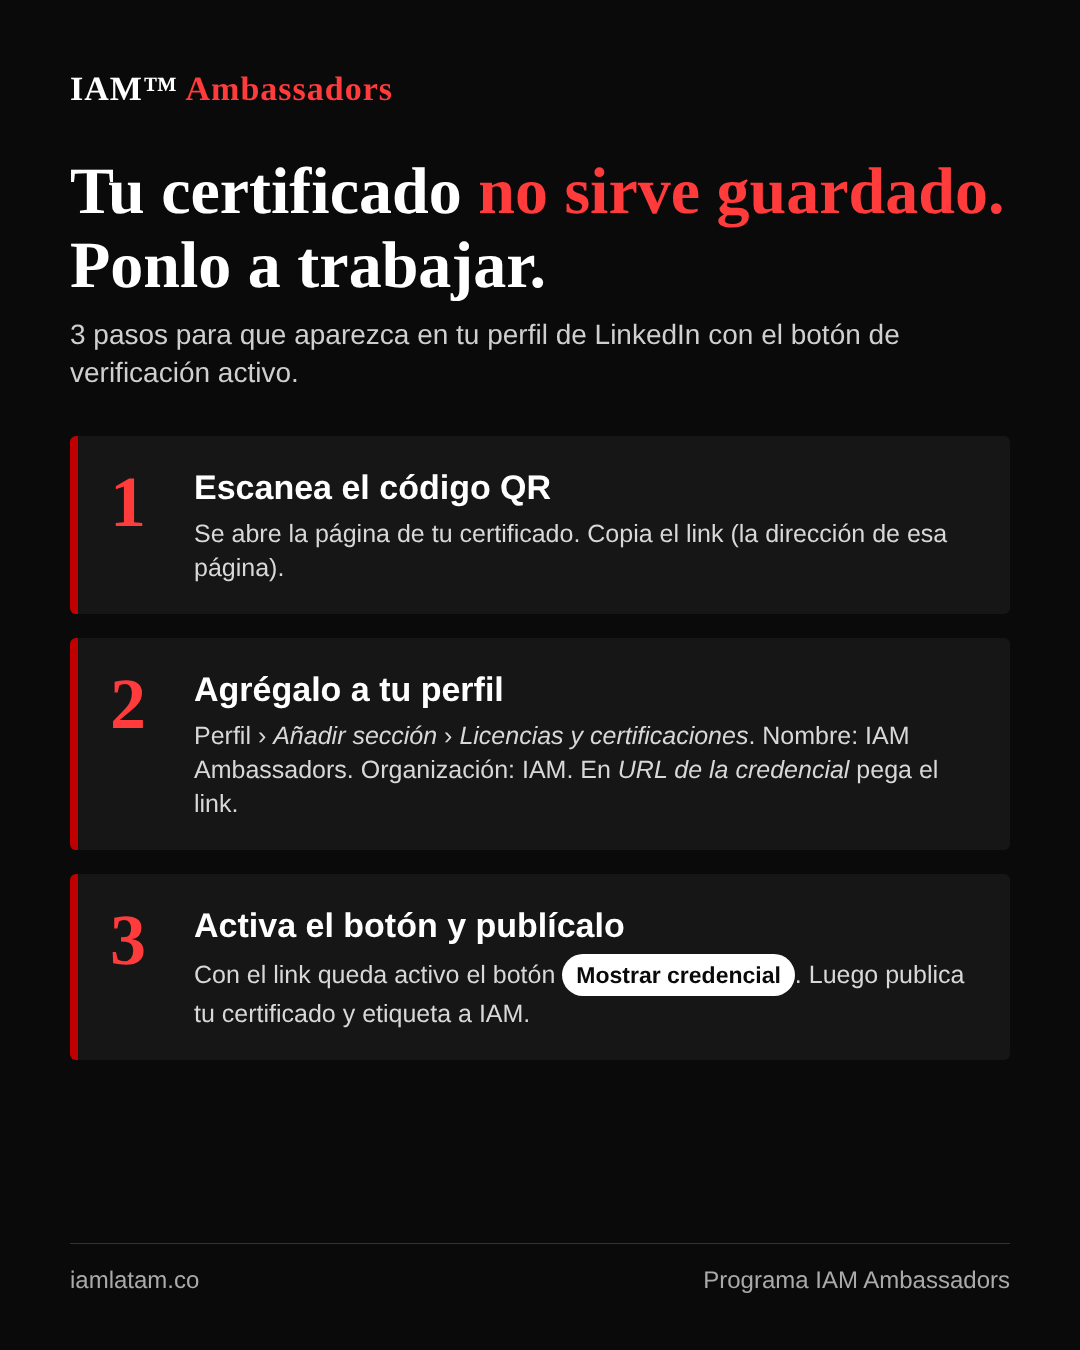
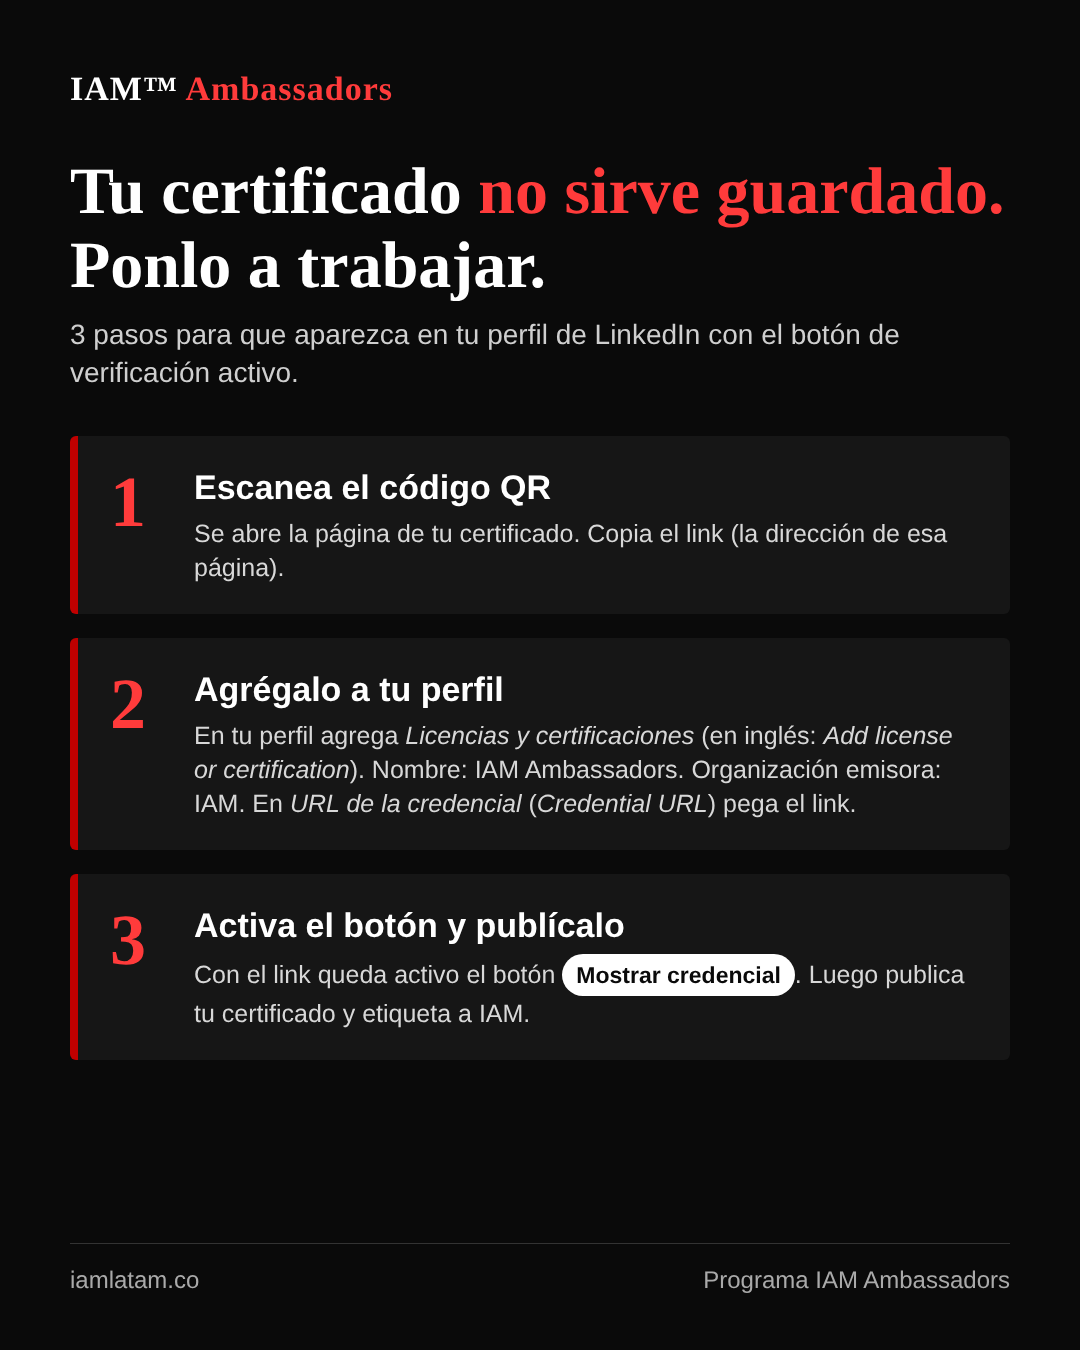
Luz Stella Murgas confirmada presidenta ANDI; guía de certificado con nombres de campos verificados
Claude-Session: https://claude.ai/code/session_01Tmne2aLNP1UGqMwJXFqoP3

Changed region(s): [[0.1833, 0.5289, 0.8861, 0.6222]]

diff --git a/contenido-linkedin/grupos/ambassadors-comfacesar/guia-certificado.html b/contenido-linkedin/grupos/ambassadors-comfacesar/guia-certificado.html
@@ -16,7 +16,7 @@ h1 em{font-style:normal;color:#FF3B3B}
 <h1>Tu certificado <em>no sirve guardado.</em><br>Ponlo a trabajar.</h1>
 <div class="sub">3 pasos para que aparezca en tu perfil de LinkedIn con el botón de verificación activo.</div>
 <div class="step"><div class="n">1</div><div class="t"><b>Escanea el código QR</b><p>Se abre la página de tu certificado. Copia el link (la dirección de esa página).</p></div></div>
-<div class="step"><div class="n">2</div><div class="t"><b>Agrégalo a tu perfil</b><p>Perfil › <i>Añadir sección</i> › <i>Licencias y certificaciones</i>. Nombre: IAM Ambassadors. Organización: IAM. En <i>URL de la credencial</i> pega el link.</p></div></div>
+<div class="step"><div class="n">2</div><div class="t"><b>Agrégalo a tu perfil</b><p>En tu perfil agrega <i>Licencias y certificaciones</i> (en inglés: <i>Add license or certification</i>). Nombre: IAM Ambassadors. Organización emisora: IAM. En <i>URL de la credencial</i> (<i>Credential URL</i>) pega el link.</p></div></div>
 <div class="step"><div class="n">3</div><div class="t"><b>Activa el botón y publícalo</b><p>Con el link queda activo el botón <span class="chip">Mostrar credencial</span>. Luego publica tu certificado y etiqueta a IAM.</p></div></div>
 <div class="foot"><span>iamlatam.co</span><span>Programa IAM Ambassadors</span></div>
 </body></html>

diff --git a/contenido-linkedin/prospeccion/prospectos.md b/contenido-linkedin/prospeccion/prospectos.md
@@ -34,3 +34,7 @@ Fuente de verdad: esta tabla y la sección "Lista de prospectos" de la página C
 - Ya pasó: el 18 nov a la 1:50 p. m. Chrome le envió por mensaje interno el texto aprobado con el Calendly (antes de esta decisión). No se le envía nada más.
 - Si responde o agenda: no contestar; mostrarle a Sandra para que decida.
 - Interacción pública (ajuste 19 nov): si comenta un post de Sandra, se le responde normal. No se borra el mensaje del 18 nov. Solo no se le insiste en reunión.
+
+## 20 nov, Luz Stella Murgas: CONFIRMADA presidenta de la ANDI
+- Fuente: web oficial ANDI, 10 nov 2026: https://andi.com.co/Home/Noticia/18107-luz-stella-murgas-es-la-nueva-president (reemplaza a Bruce Mac Master, que renunció el 1 oct 2026). Su LinkedIn aún dice Naturgas (sin actualizar).
+- Se levanta la pausa del 19 nov. Invitación pendiente desde el 16 nov. Correo personal no publicado; contacto ANDI: 601 326 8500 (Presidencia ext. 2121, Transformación Digital ext. 2304). Sin seccional en Cesar; Atlántico-Magdalena: gerente Alberto Vives de la Espriella (605 322 5299); Bolívar: María Claudia Peñas.
